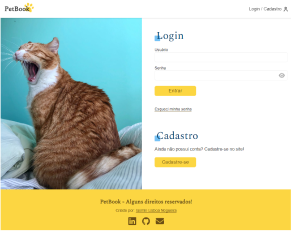
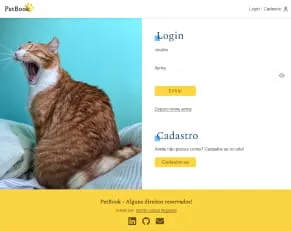
updated images sizes

diff --git a/src/components/Sobre/Sobre.jsx b/src/components/Sobre/Sobre.jsx
@@ -2,6 +2,7 @@ import React, { useState } from 'react';
 import Titulo from '../Util/Titulo';
 import ImageIasmin from '../../assets/iasmin.jpg'
 import ImageIasminWebp from '../../assets/iasmin.webp'
+import ImageIasminWebpMobile from '../../assets/iasmin-mobile.webp'
 import useMedia from '../../Hooks/useMedia';
 import ButtonDefault from '../Util/Button';
 import Curiosidades from './Curiosidades';
@@ -17,7 +18,17 @@ const Sobre = () => {
     <section className='sobre' id='sobre' aria-labelledby='title-sobre'>
       <div className='title-image'>
         <Titulo id='title-sobre'>Sobre</Titulo>
-        {isMobile && <ImageWebp className='avatar-pequeno' src={ImageIasmin} srcWebp={ImageIasminWebp} width='340px' height='340px' alt="Avatar de Iasmin" />}
+        {isMobile &&
+          <ImageWebp
+            className='avatar-pequeno'
+            src={ImageIasmin}
+            srcWebp={ImageIasminWebp}
+            srcWebpMobile={ImageIasminWebpMobile}
+            media='760px'
+            width='340px'
+            height='340px'
+            alt="Avatar de Iasmin"
+          />}
       </div>
 
       <div className='content-main'>

diff --git a/src/components/Projetos/Projetos.jsx b/src/components/Projetos/Projetos.jsx
@@ -1,9 +1,9 @@
 import React from 'react';
 import Titulo from '../Util/Titulo';
 import ItemProjeto from './ItemProjeto';
-import ImageProjeto01 from '../../assets/projeto01.png'
-import ImageProjeto02 from '../../assets/projeto02.png'
-import ImageProjeto03 from '../../assets/projeto03.png'
+import ImageProjeto01 from '../../assets/projeto01.jpg'
+import ImageProjeto02 from '../../assets/projeto02.jpg'
+import ImageProjeto03 from '../../assets/projeto03.jpg'
 import ImageProjeto01Webp from '../../assets/projeto01.webp'
 import ImageProjeto02Webp from '../../assets/projeto02.webp'
 import ImageProjeto03Webp from '../../assets/projeto03.webp'

diff --git a/src/components/Util/ImageWebp.jsx b/src/components/Util/ImageWebp.jsx
@@ -1,11 +1,15 @@
 import React from 'react'
+import useMedia from '../../Hooks/useMedia'
 
-const ImageWebp = ({ srcWebp, src, alt, width, height, ...props }) => {
+
+const ImageWebp = ({ srcWebp, src, alt, width, height, srcWebpMobile, media, ...props }) => {
+
+  const isMobile = useMedia(`(max-width: ${media} )`)
 
   return (
     <>
       <picture>
-        <source srcSet={srcWebp} type="image/webp" />
+        <source srcSet={isMobile ? srcWebpMobile ? srcWebpMobile : srcWebp : srcWebp} type="image/webp" />
         <img src={src} alt={alt} width={width} height={height} {...props} />
       </picture>
     </>

diff --git a/src/components/Sobre/Curiosidades.jsx b/src/components/Sobre/Curiosidades.jsx
@@ -1,5 +1,5 @@
 import React from 'react';
-import ImageLayout from '../../assets/pequeno-layout.png'
+import ImageLayout from '../../assets/pequeno-layout.jpg'
 import ImageLayoutWebp from '../../assets/pequeno-layout.webp'
 import TituloSecundario from '../Util/TituloSecundario';
 import ImageWebp from '../Util/ImageWebp';
